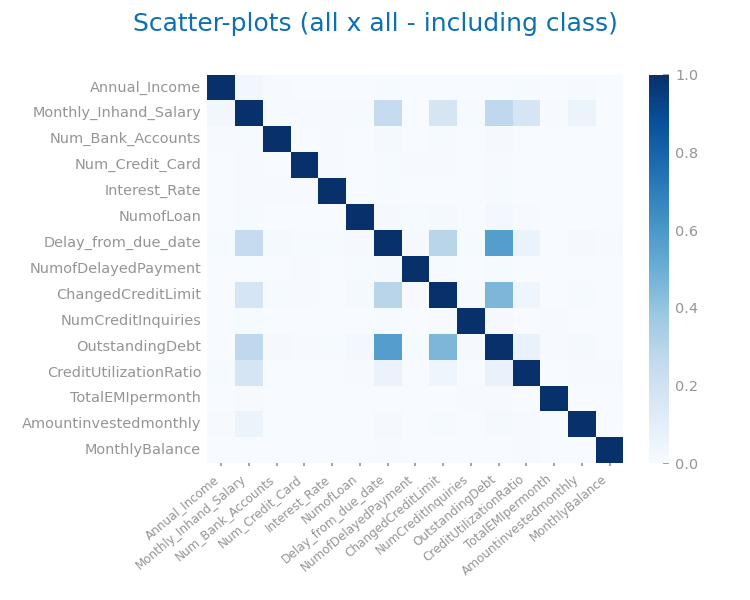
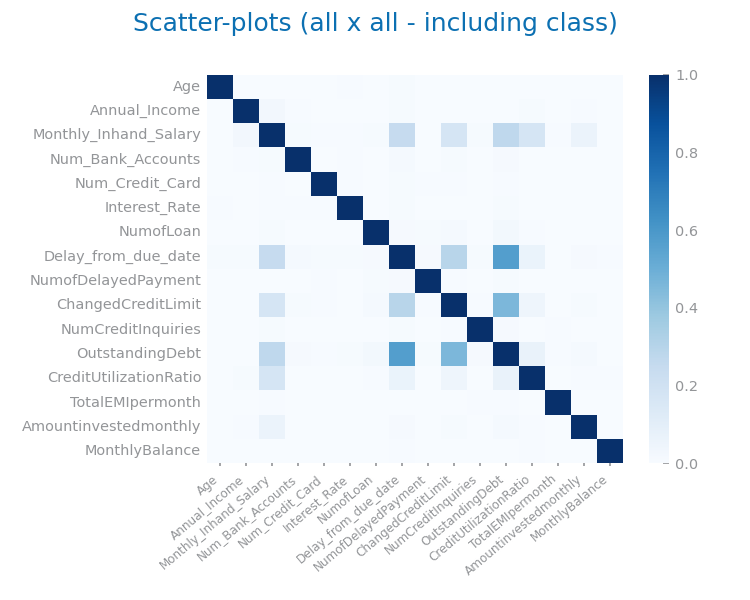
Added scatter and new missing values

diff --git a/dataset2/lab1.py b/dataset2/lab1.py
@@ -52,17 +52,19 @@ def missingVals(data: DataFrame, file_tag: str):
         print(var + '-' + str(nr))
         if nr > 0:
             mv[var] = nr
-
+    sorted_mv = dict(sorted(mv.items(), key=lambda item: item[1], reverse=True))
     print(mv)
+    print(sorted_mv)
     print(data.columns)
     figure(figsize=(5, 3))
     plot_horizontal_bar_chart(
-        list(mv.keys()),
-        list(mv.values()),
+        list(sorted_mv.keys()),
+        list(sorted_mv.values()),
         title="Nr of missing values per variable",
         xlabel="nr missing values",
         ylabel="variables",
     )
+
     tight_layout()
     savefig(f"images/{file_tag}_mv.png")
     show()
@@ -77,30 +79,70 @@ from numpy import ndarray
 from pandas import read_csv, DataFrame
 from matplotlib.figure import Figure
 from matplotlib.pyplot import figure, subplots, savefig, show
-from dslabs_functions import HEIGHT, plot_multi_scatters_chart
+from dslabs_functions import HEIGHT, plot_multi_scatters_chart, plot_scatter_chart
 
 def scatterPlots(data: DataFrame, file_tag: str):
     data = data.dropna()
-    vars = pd.DataFrame()
-    for col in data.select_dtypes(include="number").columns:
-        vars[col] = pd.to_numeric(data[col], errors='coerce')
-    symbolic_vars = data.select_dtypes(include="object").columns
-    vars_symbolic = pd.DataFrame()
 
-    for col in symbolic_vars:
-        vars_symbolic[col], _ = pd.factorize(data[col])
-
-    # Combine numeric and factorized symbolic variables
-    vars_combined = pd.concat([vars, vars_symbolic], axis=1)
-
-    n = len(vars_combined.columns)
-    fig, axs = subplots(n, n, figsize=(n * HEIGHT, n * HEIGHT), squeeze=False)
-
-    for i in range(len(vars_combined.columns)):
-        var1 = vars_combined.columns[i]
-        for j in range(i + 1, len(vars_combined.columns)):
-            var2 = vars_combined.columns[j]
-            plot_multi_scatters_chart(vars_combined, var1, var2, ax=axs[i, j - 1])
+    vars: list = data.columns.to_list()
+    print("all vars",vars)
+    allPlots, allAxis = [], []
+    
+    if [] != vars:
+        target = "Credit_Score"
+        out = ["Customer_ID","ID","SSN"]
+        n: int = len(vars) - 1
+        fig, axs = subplots(n, n, figsize=(n * HEIGHT, n * HEIGHT), squeeze=False)
+        for i in range(len(vars)):
+            var1: str = vars[i]
+            if var1 in out:
+                continue
+            for j in range(i + 1, len(vars)):
+                var2: str = vars[j]
+                if var2 in out:
+                    continue
+                allPlots += [[var1,var2]]
+                allAxis += [[i, j - 1]]
+                # plot_multi_scatters_chart(data, var1, var2, target, ax=axs[i, j - 1])
+        # savefig(f"images/{file_tag}_sparsity_per_class_study.png")
+        # show()
+        print(allPlots, len(allPlots))
+        for i in range(len(allPlots)):
+            var1, var2 = allPlots[i][0], allPlots[i][1]
+            plot_multi_scatters_chart(data, var1, var2, target, ax=axs[allAxis[i][0], allAxis[i][1]])
+        savefig(f"images/{file_tag}_ll_sparsity_per_class_study.png")
+        show()
+        # for i in range(3,39):
+        #     var1, var2 = allPlots[i][0], allPlots[i][1]
+        #     plot_multi_scatters_chart(data, var1, var2, target, ax=axs[allAxis[i][0], allAxis[i][1]])
+        # print("loop01 done")
+        # savefig(f"images/{file_tag}01_sparsity_per_class_study.png")
+        # print("loop1 start")
+        
+        # for i in range(39,117):
+        #     var1, var2 = allPlots[i][0], allPlots[i][1]
+        #     plot_multi_scatters_chart(data, var1, var2, target, ax=axs[allAxis[i][0], allAxis[i][1]])
+        # print("loop1 done")
+        
+        # savefig(f"images/{file_tag}1_sparsity_per_class_study.png")
+        # print("starting loop2")
+        # for i in range(117, 234):
+        #     var1, var2 = allPlots[i][0], allPlots[i][1]
+        #     plot_multi_scatters_chart(data, var1, var2, target, ax=axs[allAxis[i][0], allAxis[i][1]])
+        # print("loop2 done")
+        # savefig(f"images/{file_tag}2_sparsity_per_class_study.png")
+        # print("starting loop3")
+        # for i in range(234, 351):
+        #     var1, var2 = allPlots[i][0], allPlots[i][1]
+        #     plot_multi_scatters_chart(data, var1, var2, target, ax=axs[allAxis[i][0], allAxis[i][1]])
+        # print("loop3 done")
+        # savefig(f"images/{file_tag}3_sparsity_per_class_study.png")
+        # print("loop3 saved")
+    
+    else:
+        print("Sparsity per class: there are no variables.")
+    
+    print("Sparsity done")
 
 #***********************************************************************************
 #*                                   EX 2                                          *
@@ -193,4 +235,4 @@ if __name__ == "__main__":
     data['Age'] = data['Age'].astype(str).str.replace('_', '', regex=False)
 
     # granularity
-    symbolic_variables_granularity(data, file_tag)
+    scatterPlots(data, file_tag)

diff --git a/dataset2/dslabs_functions.py b/dataset2/dslabs_functions.py
@@ -71,7 +71,7 @@ def set_chart_xticks(xvalues: list, ax: Axes, percentage: bool=False):
             ax.set_xlim((xvalues[0], xvalues[-1]))
             ax.set_xticks(xvalues, labels=xvalues)
         else:
-            rotation = 0
+            rotation = 45
 
         ax.tick_params(axis='x', labelrotation=rotation, labelsize='xx-small')
         
@@ -98,15 +98,22 @@ def plot_bar_chart(xvalues: list, yvalues: list, ax: Axes=None, title: str='', x
 
     return ax
 
-def plot_horizontal_bar_chart(xvalues: list, yvalues: list, ax: Axes = None, title: str = '', xlabel: str = '',
-                              ylabel: str = '', percentage: bool = False):
+def plot_horizontal_bar_chart(elements: list, values: list, error: list=None, ax=None, title: str='', 
+                              xlabel: str='', ylabel: str='', percentage: bool=False):
     if ax is None:
         ax = gca()
+    if percentage:
+        ax.set_xlim((0, 1))
     ax = set_chart_labels(ax=ax, title=title, xlabel=xlabel, ylabel=ylabel)
-    ax = set_chart_xticks(xvalues, ax=ax, percentage=percentage)
-    values = ax.barh(yvalues, xvalues, label=xvalues, edgecolor=LINE_COLOR, color=FILL_COLOR, tick_label=yvalues)
-    format = '%.2f' if percentage else '%.0f'
-    ax.bar_label(values, fmt=format, fontproperties=FONT_TEXT)
+    y_pos = arange(len(elements))
+
+    bars = ax.barh(y_pos, values, xerr=error, align='center', error_kw={'lw': 0.5, 'ecolor': 'r'})
+    ax.set_yticks(y_pos, labels=elements)
+    ax.invert_yaxis()  # labels read top-to-bottom
+
+    # Adicionar os números correspondentes a cada barra
+    for bar, value in zip(bars, values):
+        ax.text(value, bar.get_y() + bar.get_height()/2, f'{value:.2f}', ha='left', va='center', fontsize = FONT_SIZE)
 
     return ax
 
@@ -461,4 +468,3 @@ def knn_study(trnX, trnY, tstX, tstY, k_max=19, lag=2, metric='accuracy', file_t
     savefig(f'images/{file_tag}_knn_{metric}_study.png')
 
     return best_model, best_params
-
